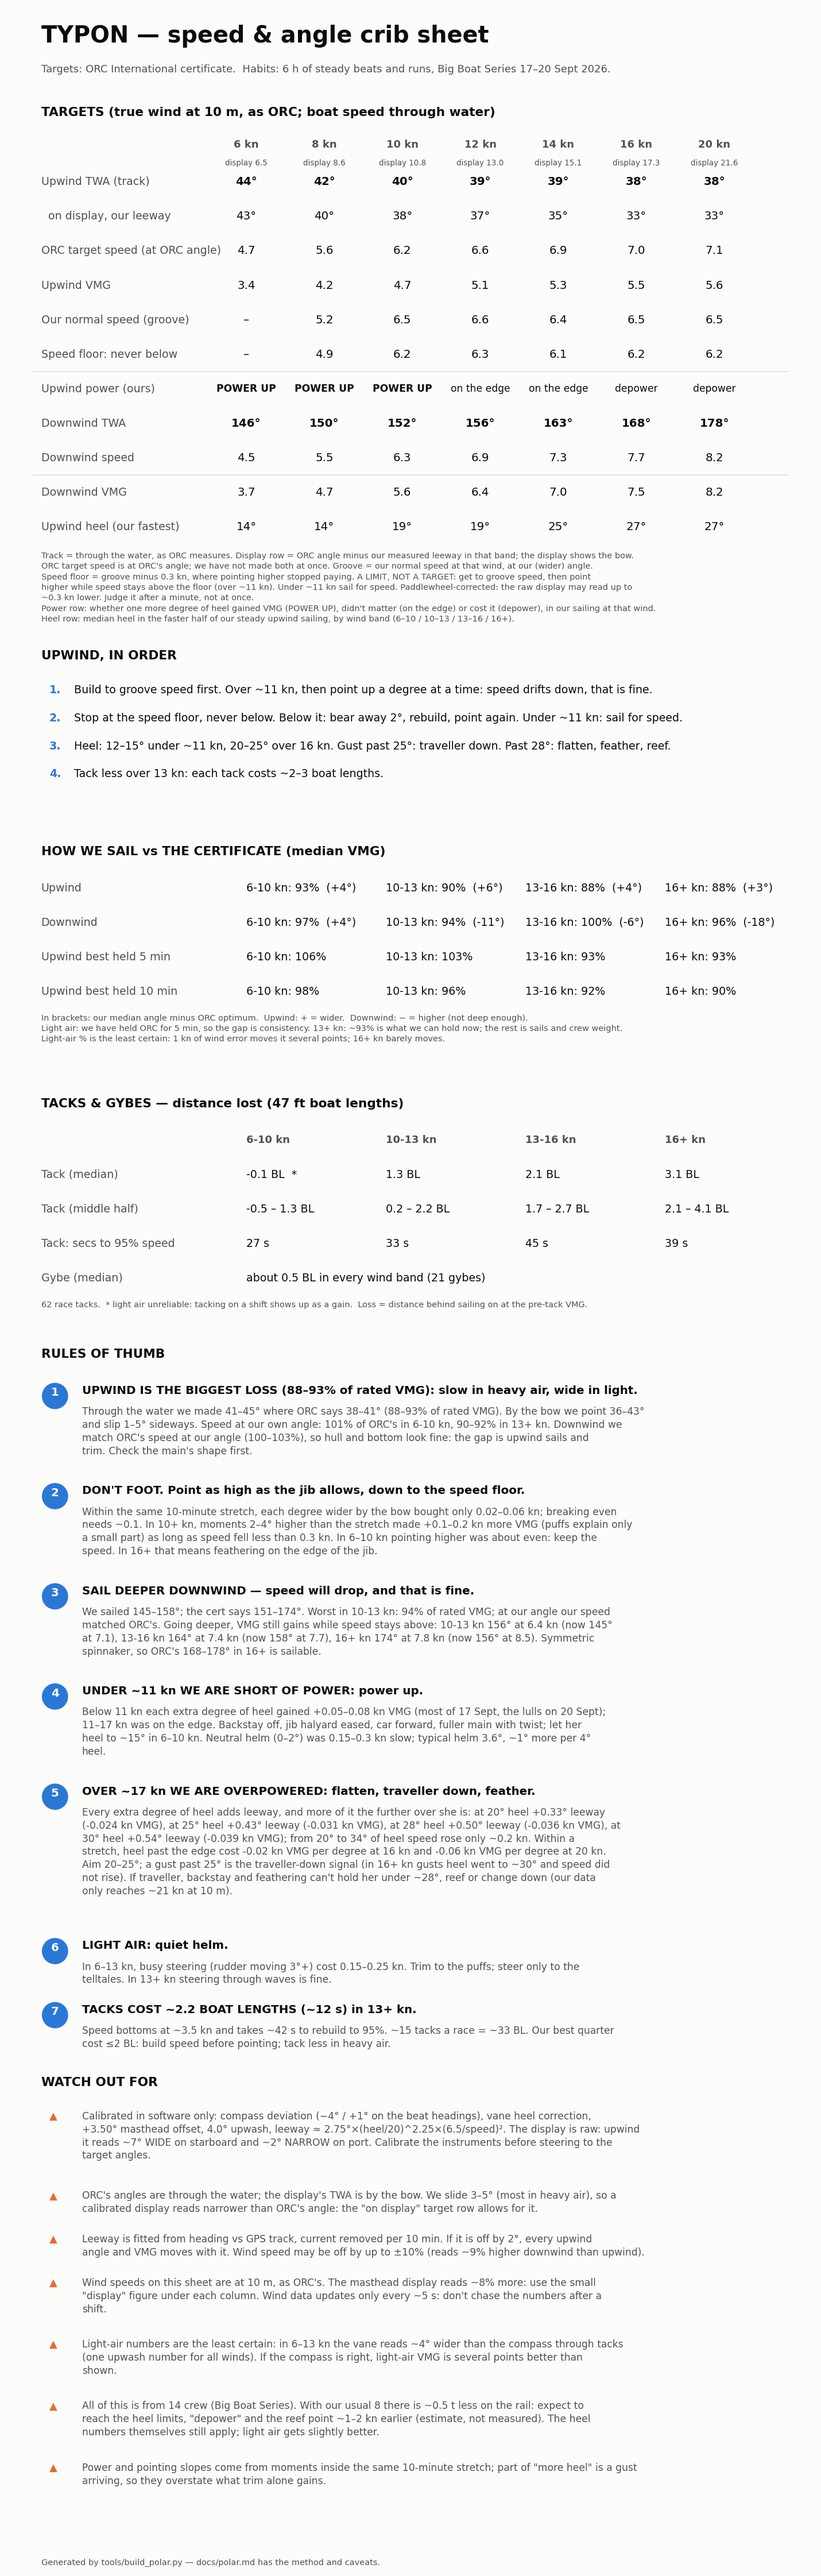
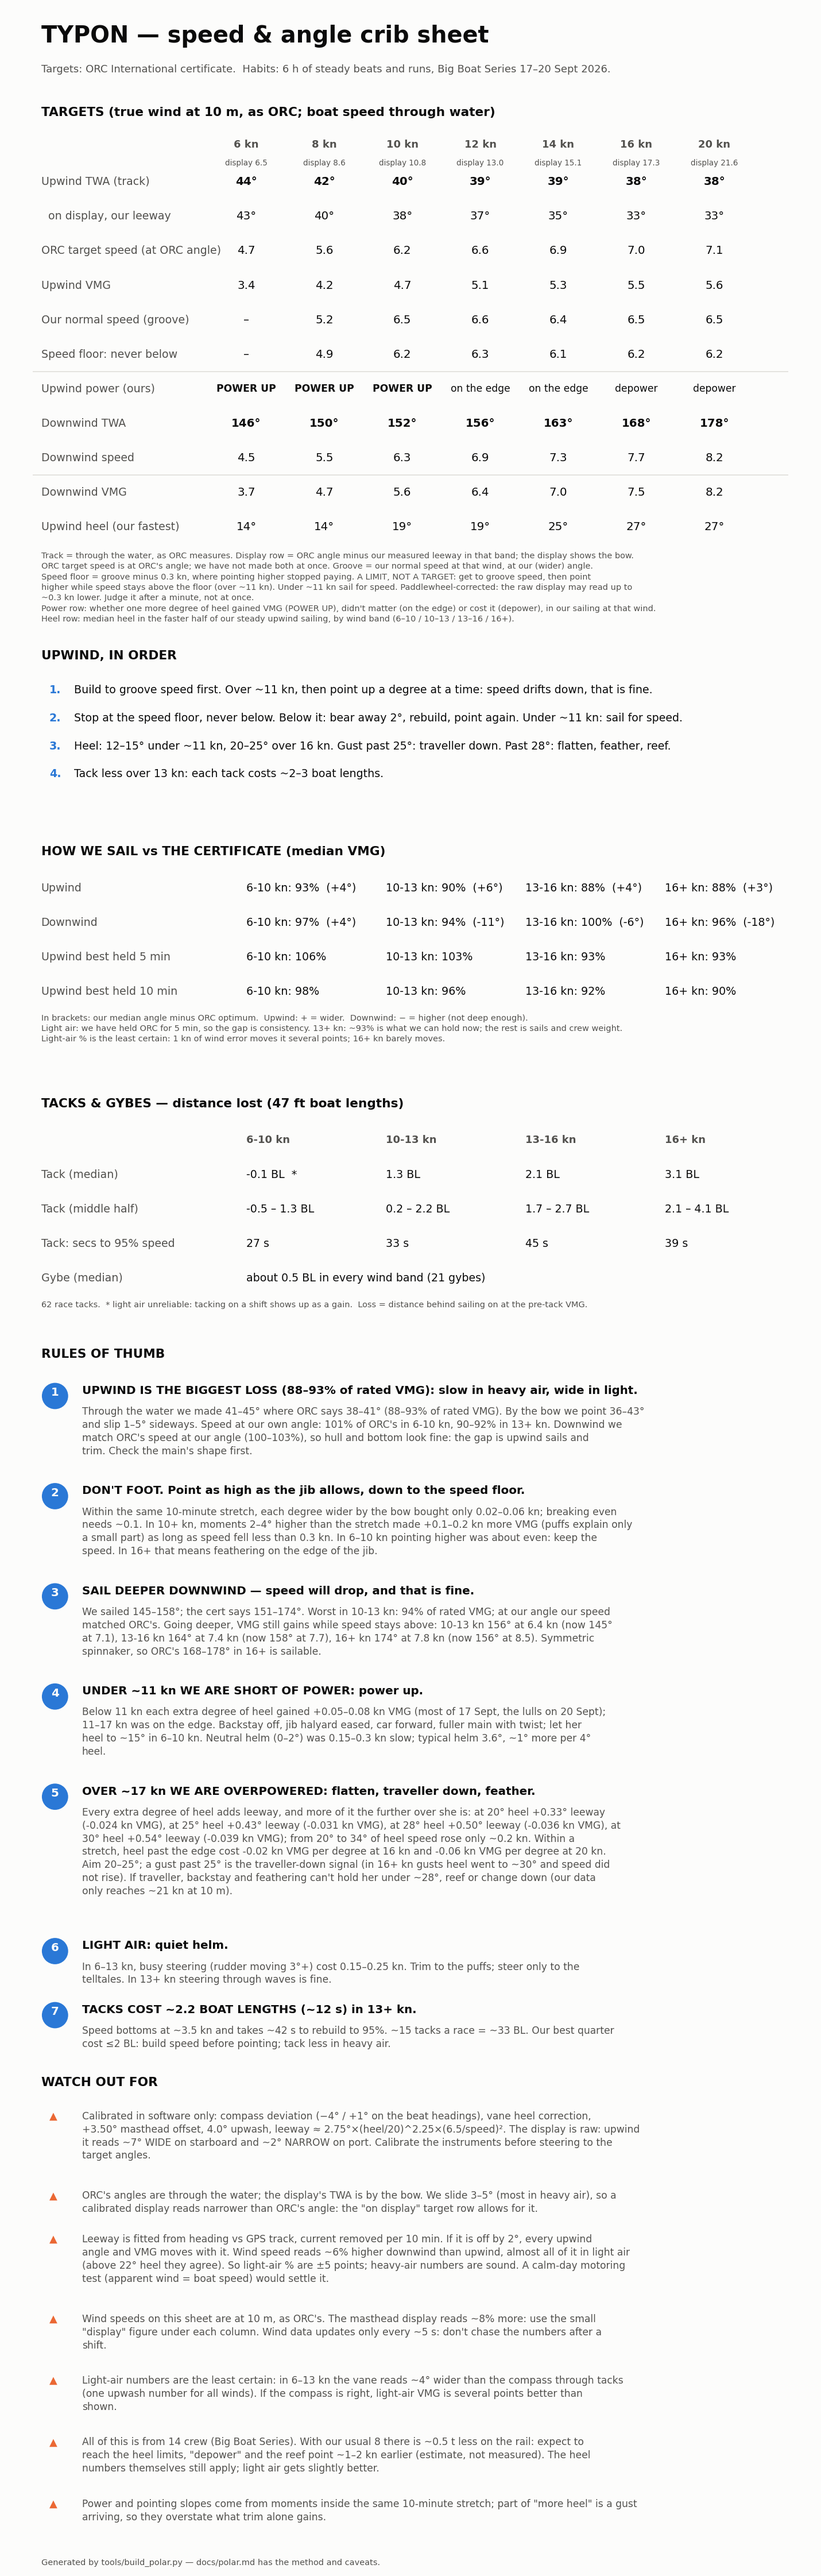
Masthead wind speed: downwind reads ~6% higher than upwind, light air only
Both mark types: 9 beat->run and 7 run->beat roundings. An instrument error
flips sign between them, a building breeze does not; the breeze explains ~1%.
The gap is ~13% under 15 deg heel and ~0 above 22, so it is a light-air
effect, not heel. Heavy-air numbers stand; light-air % carry +-5 points until
a calm-day motoring test (apparent wind = boat speed) settles which is right.
docs/polar.md section 2 and the crib sheet's watch-out updated.

Changed region(s): [[0.0923, 0.874, 0.7385, 0.9677]]

diff --git a/tools/build_polar.py b/tools/build_polar.py
@@ -947,7 +947,8 @@ def chart_cheatsheet(v, up, m, heel_fast, floor, power, held, cal, hours, outdir
         'ORC\'s angles are through the water; the display\'s TWA is by the bow. We slide 3–5° (most in heavy air), '
         'so a calibrated display reads narrower than ORC\'s angle: the "on display" target row allows for it.',
         'Leeway is fitted from heading vs GPS track, current removed per 10 min. If it is off by 2°, every upwind angle and VMG moves with it. '
-        'Wind speed may be off by up to ±10% (reads ~9% higher downwind than upwind).',
+        'Wind speed reads ~6% higher downwind than upwind, almost all of it in light air (above 22° heel they agree). '
+        'So light-air % are ±5 points; heavy-air numbers are sound. A calm-day motoring test (apparent wind = boat speed) would settle it.',
         f'Wind speeds on this sheet are at 10 m, as ORC\'s. The masthead display reads ~{(1 / TWS_TO_10M - 1) * 100:.0f}% more: use the small "display" figure under each column. '
         'Wind data updates only every ~5 s: don\'t chase the numbers after a shift.',
         'Light-air numbers are the least certain: in 6–13 kn the vane reads ~4° wider than the compass through tacks (one upwash number for all winds). '

diff --git a/docs/polar.md b/docs/polar.md
@@ -59,7 +59,7 @@ table now reaches 180°.
 | Leeway | **leeway = 2.75° × (heel/20)^2.25 × (6.5/STW)²** (refit 2026-09-25; was 7.5 × heel/STW², linear, and 0.5–2° short above 26° heel). Per heel range, fitted without the formula: 1.5° below 20°, 3.0° at 20–23°, 4.5° at 23–26°, 5.0° at 26–28°, 6.0° at 28–30°, 7.25° at 30–34° (±0.5°); the formula matches within 0.2° above 20°. Below 15° two fits disagree (0.5° from the formula, 1.5° per range), so light-air upwind % carries ±2 points. Each extra degree of heel adds ~0.33° leeway at 20°, 0.43° at 25°, 0.50° at 28°, 0.54° at 30° (−0.024 to −0.039 kn VMG), while speed rises only ~0.2 kn from 20° to 34°. Fitted from heading vs GPS track in 46 upwind windows that contain both tacks, current held constant per 10 min. Current is solved as an unknown per window, so anything that is the same on both tacks (paddlewheel scale, a fixed compass offset) goes into it; only an error that flips with the tack can pass for leeway. Compass deviation was one, and is now removed. Imperfect tilt compensation in the heading sensor would be another, and the logs can't separate it | corrected: **TWA is now through the water**, as ORC's angles are |
 | Masthead angle | **+3.25° offset** plus **4.0° upwash**, from 72 tacks. Raw data showed 45° vs 34° TWA by tack and a 7° TWD jump on every tack | corrected in software. **The instrument display is still raw**: upwind it reads ~7° wide on starboard and ~2° narrow on port (by the bow) |
 | Wind height | ORC's wind speeds are at 10 m (per ORC's speed guide; not checked against the VPP documentation). Our masthead is ~20.3 m up: cert BAS 1.55 + P 16.97 + ~0.5 m, plus ~1.3 m freeboard (estimate). Over-water profile, exponent 0.11: masthead wind × 0.925 (1/7 would give × 0.904) | corrected. Before it, every ORC target we compared against was for too much wind: light-air VMG read 84% instead of 89% |
-| Masthead speed | TWS reads ~9% higher downwind than upwind at mark roundings (could be the sea breeze building) | not corrected: **±10%** |
+| Masthead speed | TWS reads **~6% higher downwind than upwind** (80% range 3–9%), from 9 beat→run and 7 run→beat roundings: an instrument error flips sign between the two, a building breeze doesn't, and the breeze explains only ~1% (2026-09-25). **Not heel:** it is ~13% under 15° heel, 7% at 15–22°, ~0 above 22°, so it is a light-air effect (likely the cups reading a few % low, or sail-induced flow at the masthead). Heavy-air numbers are unaffected; light-air upwind % could be ~5 points lower (if downwind is right) or light-air downwind ~5 higher (if upwind is right). Settle it with a calm-day motoring test (apparent wind = boat speed) or a shore station. Heel also lowers the masthead (18.4 m at 25°, ~1% less wind; not corrected) | not corrected: light air ±10%, breeze ±3% |
 | Wind feed | Updates every **5.2 s**, ~2 s behind the compass | steady-state filter; manoeuvres excluded |
 | Rudder | Zero offset +1.7°; typical upwind weather helm 3.6° | corrected |
 | Heel | ~1° asymmetry between tacks | none |
